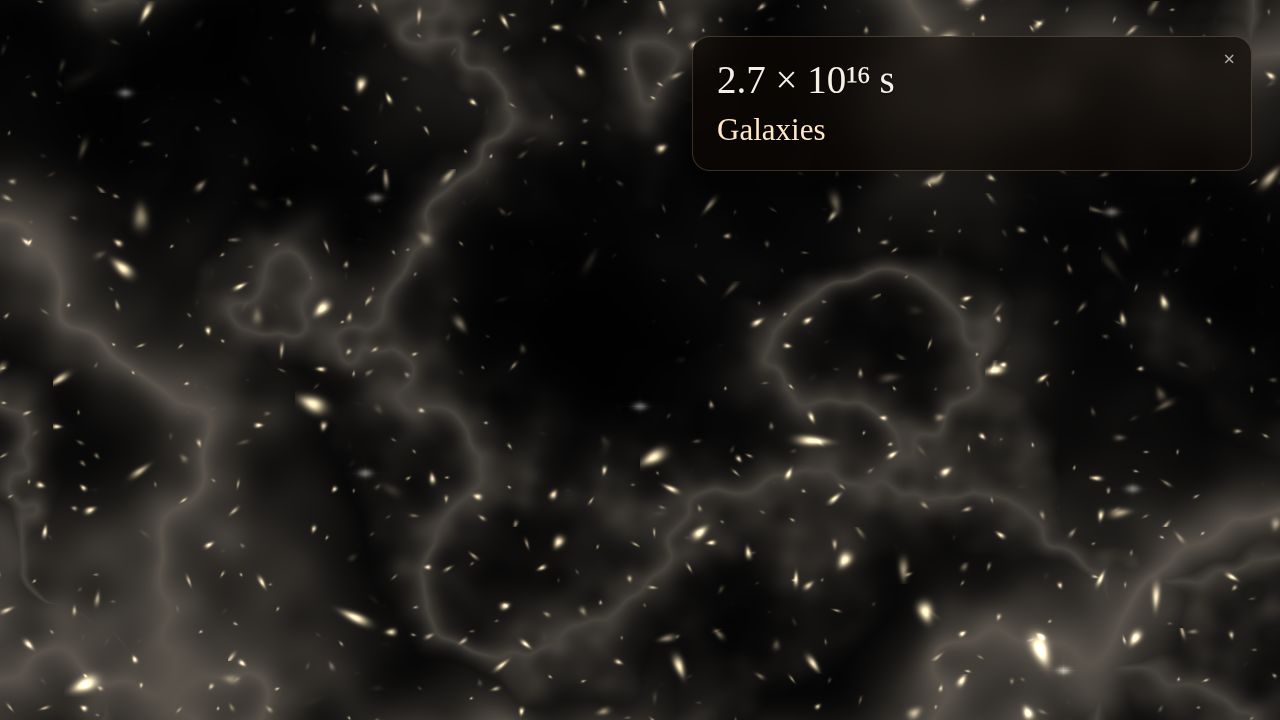
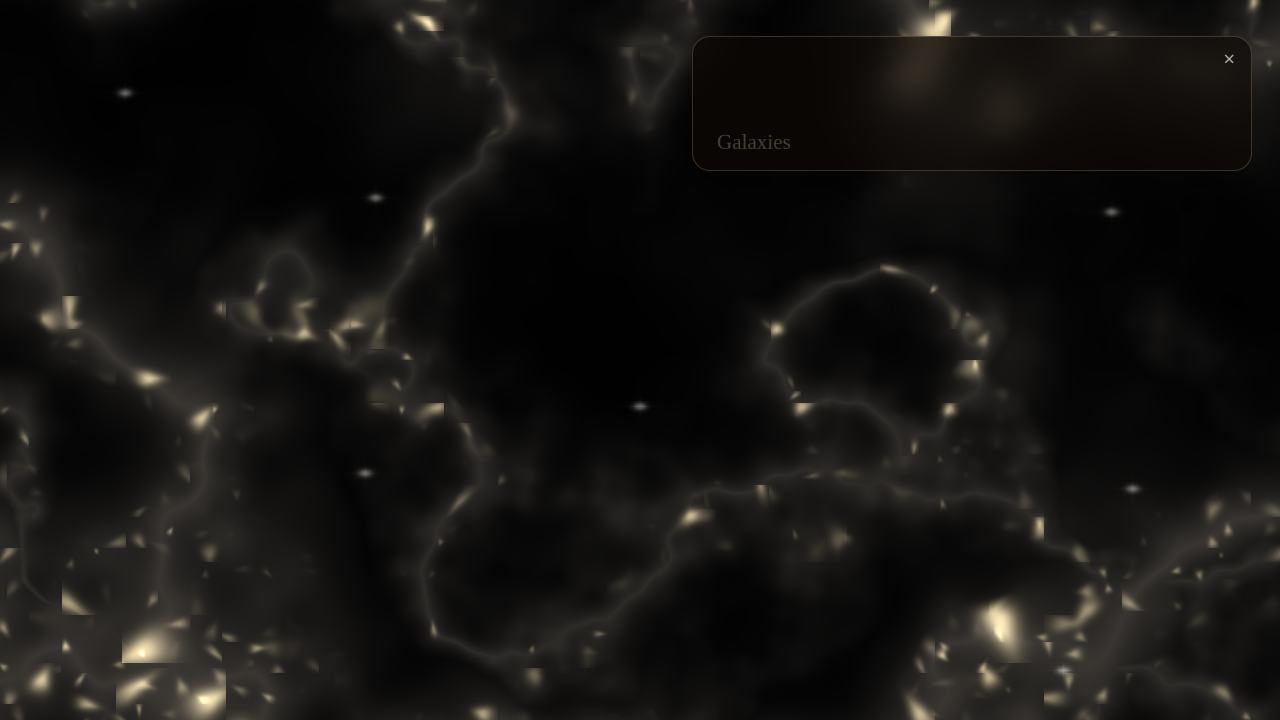
fix: grade the hot plasma as gold fire (T-0166)
The hot end of B4 was still a brown body with the green pulled down.
That band is now black voids, gold filaments, and near-white cores.
Galaxy smudges sit on the filament ridges instead of a loose starfield.

diff --git a/src/world/cosmos/sphere.ts b/src/world/cosmos/sphere.ts
@@ -244,12 +244,12 @@ export class CosmosSphere {
           float ang = hash(id + vec2(3.1, 9.4)) * 6.2831853;
           float ca = cos(ang), sa = sin(ang);
           d = vec2(ca * d.x + sa * d.y, -sa * d.x + ca * d.y);
-          d.x *= 0.28 + 0.5 * hash(id + vec2(2.2, 0.4));
-          d.y += sin(atan(d.y, d.x) * 2.0) * length(d) * 0.12;
-          float sz = 0.055 + 0.14 * hash(id + vec2(6.6, 1.1));
-          float g = exp(-dot(d, d) / max(sz * sz * 0.09, 0.0012));
-          g *= smoothstep(0.34, 0.8, h);
-          g *= smoothstep(0.18, 0.55, fil);
+          d.x *= 0.32 + 0.45 * hash(id + vec2(2.2, 0.4));
+          d.y += sin(atan(d.y, d.x) * 2.0) * length(d) * 0.22;
+          float sz = 0.11 + 0.2 * hash(id + vec2(6.6, 1.1));
+          float g = exp(-dot(d, d) / max(sz * sz * 0.28, 0.004));
+          g *= smoothstep(0.28, 0.72, h);
+          g *= smoothstep(0.35, 0.8, fil);
           return g;
         }
         void main(){
@@ -275,7 +275,7 @@ export class CosmosSphere {
           vec3 orange = vec3(1.0, 0.46, 0.05);
           vec3 red = vec3(0.62, 0.12, 0.03);
           float warm = clamp((h - 0.2) / 0.9, 0.0, 1.0); warm *= warm;
-          float fire = smoothstep(0.62, 0.95, h) * (1.0 - smoothstep(1.15, 1.7, h));
+          float fire = smoothstep(0.48, 0.78, h) * (1.0 - smoothstep(1.22, 1.72, h));
           vec3 voids = h < 1.0 ? mix(indigo, goldVoid, warm) : h < 2.0 ? mix(goldVoid, vec3(0.14, 0.035, 0.008), h - 1.0) : deepRed;
           vec3 hot = h < 1.0 ? mix(blue, gold, warm) : h < 2.0 ? mix(gold, orange, h - 1.0) : mix(orange, red, h - 2.0);
           vec3 col = voids * (0.45 + 0.3 * emit);
@@ -287,11 +287,11 @@ export class CosmosSphere {
           col += vec3(1.0, 0.98, 0.93) * core * mix(0.28, 1.45, fire);
           col += vec3(1.0, 0.99, 0.96) * pow(tip, 0.72) * mix(0.85, 1.35, fire);
           col += hot * (grain - 0.5) * 0.05 + hot * (dust - 0.5) * 0.03;
-          col = mix(mix(vec3(0.012, 0.004, 0.0), col, smoothstep(0.18, 0.72, shaped)), col, 1.0 - fire);
-          float mid = fire * smoothstep(0.08, 0.4, shaped) * (1.0 - smoothstep(0.82, 0.98, shaped));
-          col.r = mix(col.r, min(1.0, col.r * 1.25 + 0.05), mid);
-          col.g = mix(col.g, col.g * 0.72, mid);
-          col.b = mix(col.b, col.b * 0.25, mid);
+          float band = smoothstep(0.28, 0.7, shaped);
+          float white = smoothstep(0.62, 0.92, shaped);
+          vec3 fireCol = mix(vec3(0.012, 0.004, 0.0), vec3(1.0, 0.84, 0.18), band);
+          fireCol = mix(fireCol, vec3(1.0, 0.98, 0.93), white);
+          col = mix(col, fireCol, fire);
           float beforeStars = 1.0 - clamp(stars / 8.0, 0.0, 1.0);
           col += hot * streak(uv, r - q, time) * 0.42 * beforeStars * (1.0 - fire * 0.35);
           vec3 fogCol = mix(vec3(1.0, 0.46, 0.07), vec3(0.50, 0.10, 0.022), clear);
@@ -315,10 +315,10 @@ export class CosmosSphere {
           float fil = pow(clamp(1.0 - abs(fbm(uv * 3.6 + r * 0.2) * 2.0 - 1.0), 0.0, 1.0), 8.5);
           float filB = pow(clamp(1.0 - abs(fbm(uv * 6.4 + 3.1) * 2.0 - 1.0), 0.0, 1.0), 9.5);
           float threads = max(fil, filB * 0.8);
-          float beads = galaxyField(uv, 18.0, pow(threads, 0.35)) + galaxyField(uv + vec2(2.2, 7.1), 36.0, pow(threads, 0.35)) * 0.9 + galaxyField(uv * 1.04 + vec2(4.0, 1.5), 58.0, pow(threads, 0.35)) * 0.55;
-          vec3 gSky = vec3(0.004, 0.0035, 0.006) + vec3(0.62, 0.58, 0.52) * threads * 0.55;
+          float beads = galaxyField(uv, 20.0, threads) + galaxyField(uv + vec2(2.2, 7.1), 38.0, threads) * 0.85 + galaxyField(uv * 1.04 + vec2(4.0, 1.5), 62.0, threads) * 0.55;
+          vec3 gSky = vec3(0.003, 0.0025, 0.004) + vec3(0.55, 0.52, 0.48) * threads * 0.4;
           col = mix(col, gSky, smoothstep(0.02, 0.28, galaxy));
-          col += vec3(0.96, 0.88, 0.7) * beads * galaxy * 1.25;
+          col += vec3(0.9, 0.82, 0.62) * beads * galaxy * 0.9;
           for (int i = 0; i < 8; i++) {
             float fi = float(i);
             float on = clamp((stars - fi) / 0.35, 0.0, 1.0) * (1.0 - sun) * (1.0 - galaxy) * (1.0 - smoothstep(0.2, 0.42, late));
